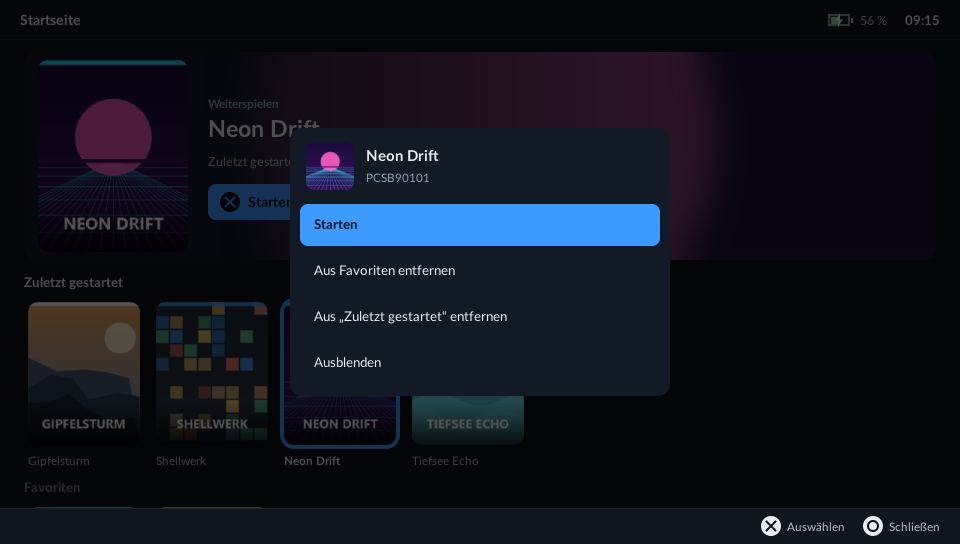
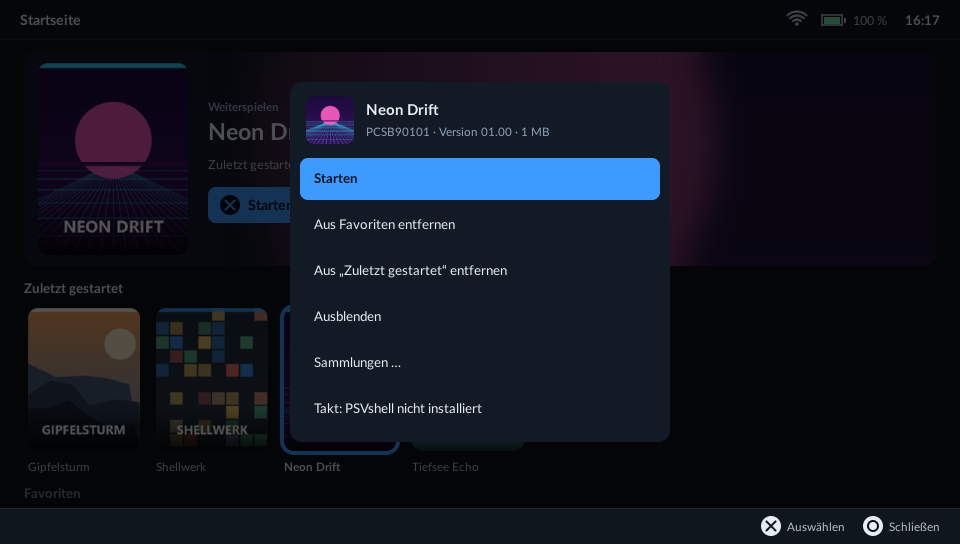
Retake the README screenshots for v0.12
All six screenshots show the current UI: Wi-Fi icon in the header, a
custom collection row ("Abenteuer"), the options menu with version,
size, collections and clocks, the library sorted by playtime, the
three-step return setting and quick access with navigation sounds and
free space. The demo set now creates that collection and sets theme and
sound in state.txt. Captions updated.

diff --git a/README.md b/README.md
@@ -14,12 +14,12 @@ Fonts: Lato (UI) and Lexend (wordmark), both under the SIL Open Font License (`r
 ## Screenshots
 | | |
 |---|---|
-| ![Home screen with box art](docs/screenshots/startseite.png) | ![Home screen, Vita games row](docs/screenshots/startseite-reihen.png) |
-| Home: box art in the hero, blurred background from the cover, **playtime** | Portrait box art tiles, rows by category |
+| ![Home screen with box art](docs/screenshots/startseite.png) | ![Home screen, collection row](docs/screenshots/startseite-reihen.png) |
+| Home: box art in the hero with a blurred background from the cover, **playtime** | Own **collections** as rows (here "Abenteuer"), portrait box art tiles |
 | ![Library](docs/screenshots/bibliothek.png) | ![App options](docs/screenshots/optionen.png) |
-| Library sorted by **playtime**; apps without a cover show their icon | Options (△): favourite, hide |
+| Library sorted by **playtime**; apps without a cover show their icon | Options (△): version and size, favourite, hide, collections, clocks |
 | ![Settings](docs/screenshots/einstellungen.png) | ![Quick access](docs/screenshots/schnellzugriff.png) |
-| Settings: return plugin, **cover download** and **colour scheme** | Quick access (SELECT) |
+| Settings: return modes, plugin, **cover download**, **colour scheme** | Quick access (SELECT): brightness, volume, **navigation sounds**, free space |
 
 ![Colour schemes Glut, Aurora, Amethyst and OLED](docs/screenshots/farbschemas.png)
 <sub>Colour schemes besides the default "Nacht": Glut, Aurora, Amethyst and OLED.</sub>
